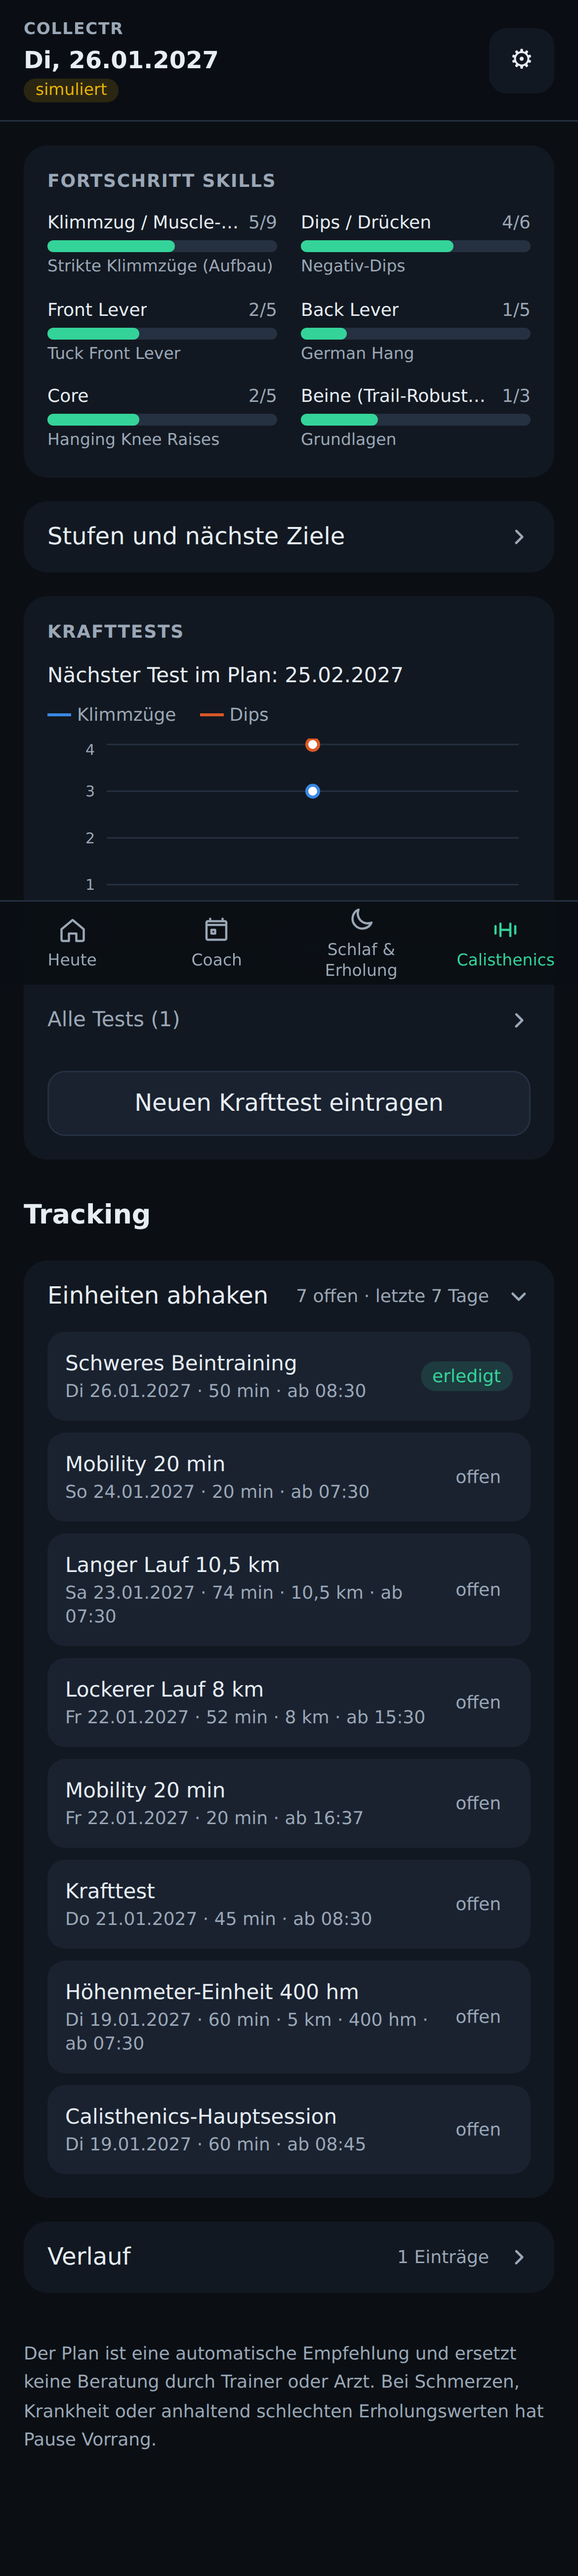
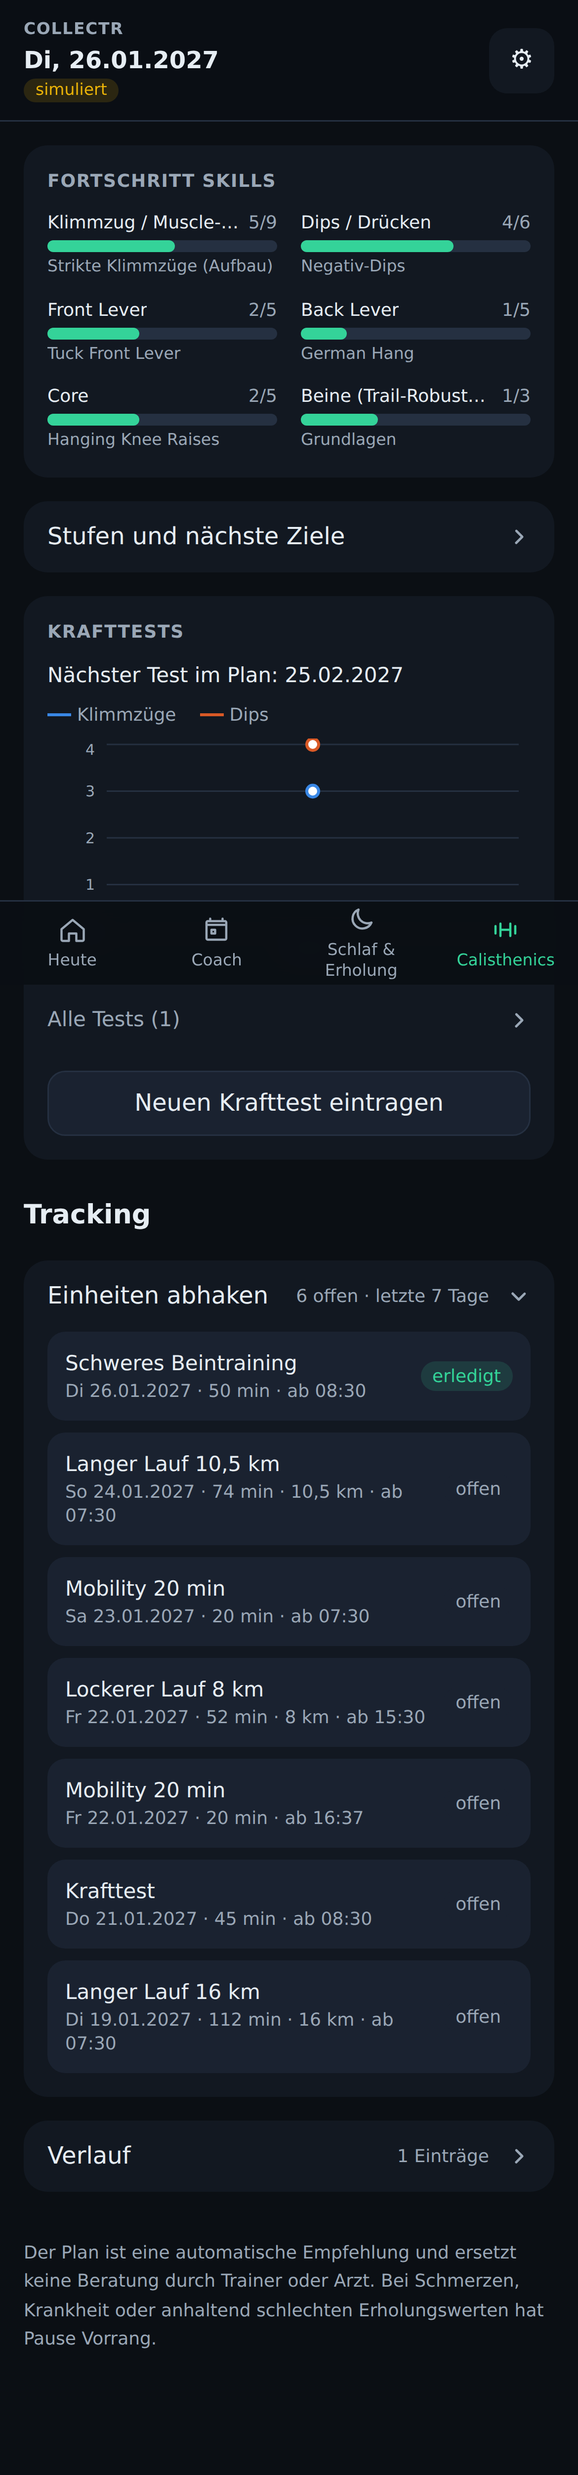
Grundlage und Aufbau: Tag 4 Calisthenics, Tag 5 langer Lauf
Nutzerwunsch: an Tag 4 zuerst Höhenmeter- bzw. Qualitätseinheit und
Calisthenics, an Tag 5 der lange Lauf. Rennspezifisch und Taper bleiben
unverändert (langer Lauf an Tag 4, B2B und Bergwochenenden an Tag 4/5).

- CONFIG.plan.longRunDay je Phase, composeMicro mit longRunDay
- generatePlan: ist Tag 5 nicht frei (V, Urlaub, krank), Tag 4 aber frei und
  noch ohne Eintrag, läuft der lange Lauf an Tag 4
- Tests angepasst und ergänzt (Layout, V-Schicht an Tag 5, Vorausschau)

Claude-Session: https://claude.ai/code/session_017BJPYiqC2kuGk2Qt34sR8W

diff --git a/src/core/plan/plan.test.ts b/src/core/plan/plan.test.ts
@@ -269,12 +269,49 @@ describe('Harte Regeln (SPEC 4.3, 5.3, 5.5, 11)', () => {
     for (const d of plan.days.filter((x) => x.shift.dayKind === 'pre_night')) {
       expect(d.sessions.filter((s) => !s.optional).length).toBeLessThanOrEqual(CONFIG.plan.maxSessionsPreNight)
     }
-    // In Grundlage und Aufbau ist das die Krafteinheit, Qualitätseinheiten liegen an Tag 5
+    // In Grundlage und Aufbau ist das die Krafteinheit, Qualitätseinheiten liegen im Aufbau an Tag 4, danach an Tag 5
     const build = plan.days.filter((d) => d.shift.dayKind === 'pre_night' && plan.microcycles[d.microIndex - 1]?.phase === 'build')
     expect(build.length).toBeGreaterThan(0)
     for (const d of build) expect(d.sessions.every((s) => s.category === 'strength')).toBe(true)
-    const quality = plan.days.flatMap((d) => d.sessions.filter((s) => s.type === 'threshold' || s.type === 'intervals_uphill').map(() => d.shift.cycleDay))
-    expect(new Set(quality)).toEqual(new Set([5]))
+    const quality = (phases: string[]) =>
+      new Set(
+        plan.days
+          .filter((d) => phases.includes(plan.microcycles[d.microIndex - 1]!.phase))
+          .flatMap((d) => d.sessions.filter((s) => s.type === 'threshold' || s.type === 'intervals_uphill').map(() => d.shift.cycleDay)),
+      )
+    expect(quality(['build'])).toEqual(new Set([4]))
+    expect(quality(['specific', 'taper'])).toEqual(new Set([5]))
+  })
+
+  it('Grundlage und Aufbau: Tag 4 Höhenmeter/Qualität + Calisthenics, Tag 5 langer Lauf (Nutzerwunsch)', () => {
+    for (const m of plan.microcycles.filter((x) => x.phase === 'base' || x.phase === 'build')) {
+      const d4 = plan.days.find((d) => d.microIndex === m.index && d.shift.cycleDay === 4 && d.date > CONFIG.plan.startDate)!
+      const d5 = plan.days.find((d) => d.microIndex === m.index && d.shift.cycleDay === 5 && d.date > CONFIG.plan.startDate)!
+      expect(types(d5), `Mikrozyklus ${m.index}`).toEqual(['long_run'])
+      if (m.kind === 'deload') expect(types(d4)).toEqual(['mobility'])
+      else {
+        expect(types(d4), `Mikrozyklus ${m.index}`).toContain('calisthenics_main')
+        expect(types(d4).some((t) => ['treadmill_hills', 'intervals_uphill', 'threshold'].includes(t))).toBe(true)
+        // Lauf zuerst, danach Calisthenics
+        const run = d4.sessions.find((s) => s.category === 'run')!
+        const cali = d4.sessions.find((s) => s.type === 'calisthenics_main')!
+        expect(cali.startMin!).toBeGreaterThan(run.startMin!)
+      }
+    }
+    // rennspezifisch wie bisher: langer Lauf an Tag 4
+    expect(types(day(plan, '2027-06-17'))).toEqual(['long_run'])
+  })
+
+  it('V-Schicht an Tag 5 (vorher bekannt): langer Lauf an Tag 4, ist Tag 4 schon eingetragen, fällt er aus', () => {
+    const cal = withOverride(createShiftCalendar(), { date: '2026-10-31', kind: 'V' })
+    const p = generatePlan({ calendar: cal })
+    expect(types(day(p, '2026-10-30'))).toEqual(['long_run'])
+    expect(day(p, '2026-10-31').sessions).toEqual([])
+    const hillsId = day(plan, '2026-10-30').sessions[0]!.id
+    const logged = generatePlan({ calendar: cal, logs: [{ sessionId: hillsId, date: '2026-10-30', status: 'done' }] })
+    expect(types(day(logged, '2026-10-30'))).toEqual(['treadmill_hills', 'calisthenics_main'])
+    expect(day(logged, '2026-10-31').removed.find((r) => r.session.type === 'long_run')!.note).toContain('gestrichen')
+    expect(microKm(logged, 2)).toBe(microKm(plan, 2)) // kein Nachholen
   })
 
   it('Tag 2: jeder Einheitentyp ist erlaubt, der ins Fenster passt (lange Läufe laut 5.3 nur Tag 4/5)', () => {
@@ -355,10 +392,10 @@ describe('V-Schicht, Ausfälle und Verschieben (SPEC 4.1, 6.3, 11)', () => {
     expect(hills.note).toContain('gestrichen')
     const cali = v.removed.find((r) => r.session.type === 'calisthenics_main')!
     expect(cali.reason).toBe('moved')
-    const target = day(p, '2026-11-04')
+    const target = day(p, '2026-11-05')
     const moved = target.sessions.find((s) => s.type === 'calisthenics_main')!
     expect(moved.origin?.movedFrom).toBe('2026-10-31')
-    expect(target.shift.cycleDay).toBe(4)
+    expect(target.shift.cycleDay).toBe(5)
   })
 
   it('nie auf Tag 1 verschoben', () => {
@@ -367,11 +404,11 @@ describe('V-Schicht, Ausfälle und Verschieben (SPEC 4.1, 6.3, 11)', () => {
     for (const d of p.days.filter((x) => x.shift.cycleDay === 1)) expect(d.sessions).toEqual([])
   })
 
-  it('Krankheit an Tag 4: langer Lauf rückt auf Tag 5 und ersetzt die schwächere Einheit, kein Nachholen', () => {
+  it('Krankheit an Tag 4: Calisthenics rückt auf Tag 5 zum langen Lauf, Höhenmeter entfallen, kein Nachholen', () => {
     const cal = withOverride(createShiftCalendar(), { date: '2026-10-30', kind: 'KRANK' })
     const p = generatePlan({ calendar: cal })
     const d5 = day(p, '2026-10-31')
-    expect(types(d5)).toContain('long_run')
+    expect(types(d5)).toEqual(['long_run', 'calisthenics_main'])
     expect(types(d5)).not.toContain('treadmill_hills')
     expect(microKm(p, 1)).toBeLessThanOrEqual(microKm(plan, 1))
     expect(microKm(p, 2)).toBe(microKm(plan, 2))
@@ -390,14 +427,14 @@ describe('V-Schicht, Ausfälle und Verschieben (SPEC 4.1, 6.3, 11)', () => {
   })
 
   it('ausgelassene Schlüsseleinheit wird höchstens einmal verschoben', () => {
-    const longId = day(plan, '2026-10-30').sessions.find((s) => s.type === 'long_run')!.id
-    const p1 = generatePlan({ logs: [{ sessionId: longId, date: '2026-10-30', status: 'skipped' }] })
-    const moved = day(p1, '2026-10-31').sessions.find((s) => s.type === 'long_run')!
+    const caliId = day(plan, '2026-10-30').sessions.find((s) => s.type === 'calisthenics_main')!.id
+    const p1 = generatePlan({ logs: [{ sessionId: caliId, date: '2026-10-30', status: 'skipped' }] })
+    const moved = day(p1, '2026-10-31').sessions.find((s) => s.type === 'calisthenics_main')!
     expect(moved.origin?.movedFrom).toBe('2026-10-30')
     // die verschobene Einheit wird ebenfalls ausgelassen → kein zweites Verschieben
     const p2 = generatePlan({
       logs: [
-        { sessionId: longId, date: '2026-10-30', status: 'skipped' },
+        { sessionId: caliId, date: '2026-10-30', status: 'skipped' },
         { sessionId: moved.id, date: '2026-10-31', status: 'skipped' },
       ],
     })
@@ -475,7 +512,7 @@ describe('Einheiten-Inhalt (SPEC 9)', () => {
       { onboarding: true },
     )
     const p = generatePlan({ strengthState: state })
-    const cali = day(p, '2026-10-31').sessions.find((s) => s.type === 'calisthenics_main')!
+    const cali = day(p, '2026-10-30').sessions.find((s) => s.type === 'calisthenics_main')!
     expect(cali.exercises!.length).toBeGreaterThan(3)
     expect(cali.exercises!.every((e) => e.sets > 0 && e.restSec > 0 && (e.reps !== undefined || e.holdSec !== undefined))).toBe(true)
   })

diff --git a/src/core/recovery/recovery.test.ts b/src/core/recovery/recovery.test.ts
@@ -21,7 +21,7 @@ import {
   type UpcomingKey,
 } from './index'
 
-const DATE = '2026-12-12' // Tag 2 im Aufbau (vor der Nacht)
+const DATE = '2026-12-12' // Tag 2 in der Grundlage (vor der Nacht)
 const ctx: SessionContext = { date: DATE, microIndex: 15, phase: 'build', slot: 'lauf' }
 
 /** Eine Einheit je Typ (ohne Rennen). */
@@ -301,11 +301,17 @@ describe('Vorausschau 6.3a', () => {
 
   it('findet die kommenden Schlüsseleinheiten im Plan inkl. Nachtschicht dazwischen', () => {
     const plan = generatePlan()
-    const u = upcomingKeySessions(plan, DATE, createShiftCalendar())
-    const long = u.find((x) => x.session.type === 'long_run')!
-    expect(long.date).toBe('2026-12-14')
+    // Tag 2 im Aufbau: Qualität an Tag 4 übermorgen, mit Nachtschicht dazwischen
+    const u = upcomingKeySessions(plan, '2027-01-26', createShiftCalendar())
+    const quality = u.find((x) => x.session.type === 'intervals_uphill')!
+    expect(quality.date).toBe('2027-01-28')
+    expect(quality.daysAhead).toBe(2)
+    expect(quality.nightShiftBetween).toBe(true)
+    // Tag 3: langer Lauf an Tag 5 übermorgen, die Nachtschicht liegt schon zurück
+    const long = upcomingKeySessions(plan, '2027-01-27', createShiftCalendar()).find((x) => x.session.type === 'long_run')!
+    expect(long.date).toBe('2027-01-29')
     expect(long.daysAhead).toBe(2)
-    expect(long.nightShiftBetween).toBe(true)
+    expect(long.nightShiftBetween).toBe(false)
   })
 })
 
@@ -338,18 +344,18 @@ describe('Mikrozyklus-Reduktion (SPEC 6.3, 11)', () => {
 describe('Nachhol-Vorschlag (SPEC 6.3)', () => {
   it('nur bei sehr guter Recovery und nur als Vorschlag, wenn die Regeln erfüllt sind', () => {
     const plan = generatePlan()
-    // Künstlich: langer Lauf an Tag 4 (30.10.) ist ausgefallen und wurde nicht verschoben.
-    const d4 = plan.days.find((d) => d.date === '2026-10-30')!
+    // Künstlich: langer Lauf im Rennzeitplan an Tag 4 (27.06.2027) ist ausgefallen und wurde nicht verschoben.
+    const d4 = plan.days.find((d) => d.date === '2027-06-27')!
     const long = d4.sessions.find((s) => s.type === 'long_run')!
     d4.sessions = d4.sessions.filter((s) => s !== long)
     d4.removed.push({ session: long, reason: 'no_window', note: 'Krank.' })
-    const date = '2026-10-31' // Tag 5 mit Höhenmeter-Einheit
+    const date = '2027-06-28' // Tag 5 mit Höhenmeter-Einheit
     const great = assessReadiness({ date, today: whoopDay(date, 90) })
     const s = suggestCatchUp(plan, date, great)
     expect(s?.session.type).toBe('long_run')
     expect(s?.replaces.map((x) => x.type)).toEqual(['treadmill_hills'])
     expect(s?.text).toContain('Freiwillig')
     expect(suggestCatchUp(plan, date, assessReadiness({ date, today: whoopDay(date, 70) }))).toBeNull()
-    expect(suggestCatchUp(plan, '2026-12-19', great)).toBeNull() // Tag 4: langer Lauf ist wichtiger
+    expect(suggestCatchUp(plan, '2027-07-02', great)).toBeNull() // Tag 4 mit eigenem langen Lauf
   })
 })

diff --git a/src/core/plan/compose.ts b/src/core/plan/compose.ts
@@ -34,6 +34,8 @@ export interface ComposeOptions {
   /** Reduktionsfaktor aus der Erholung (1 = keine Reduktion). */
   modifier: number
   strengthState?: StrengthState
+  /** Tag des langen Laufs in Grundlage, Aufbau und Entlastung (Standard: `plan.longRunDay` der Phase). */
+  longRunDay?: 4 | 5
 }
 
 type FlexKind = 'easy' | 'easy_abc' | 'easy_strides' | 'hills' | 'easy_afternoon'
@@ -140,27 +142,29 @@ export function composeMicro(micro: Microcycle, vol: MicroVolume, opts: ComposeO
   const S = V.flexShares
 
   // Tag 2 (vor der Nachtschicht) hat genau eine Einheit: die Krafteinheit. Der Lauf liegt an Tag 3
-  // nach dem Tagschlaf, Qualitätseinheiten an Tag 5.
+  // nach dem Tagschlaf. In Grundlage und Aufbau: Tag 4 Höhenmeter/Qualität + Calisthenics, Tag 5 langer Lauf.
+  const longDay: 4 | 5 = opts.longRunDay ?? CONFIG.plan.longRunDay[phase]
+  const otherDay: 4 | 5 = longDay === 5 ? 4 : 5
   switch (micro.template) {
     case 'base':
-      addLong(4, 'long_run', vol.longRunKm)
-      flex.push({ day: 3, kind: 'easy', share: S.base.day3 }, { day: 5, kind: 'hills', share: S.base.day5 })
-      extras.push({ day: 2, make: strength('legs_heavy') }, { day: 5, make: strength('calisthenics_main') })
+      addLong(longDay, 'long_run', vol.longRunKm)
+      flex.push({ day: 3, kind: 'easy', share: S.base.day3 }, { day: otherDay, kind: 'hills', share: S.base.hills })
+      extras.push({ day: 2, make: strength('legs_heavy') }, { day: otherDay, make: strength('calisthenics_main') })
       optionalD3(true)
       break
     case 'build_a':
     case 'build_b':
-      addLong(4, 'long_run', vol.longRunKm)
-      addQuality(5, micro.template === 'build_a' ? 'intervals_uphill' : 'threshold')
+      addLong(longDay, 'long_run', vol.longRunKm)
+      addQuality(otherDay, micro.template === 'build_a' ? 'intervals_uphill' : 'threshold')
       flex.push({ day: 3, kind: 'easy', share: 1 })
-      extras.push({ day: 2, make: strength('legs_heavy') }, { day: 5, make: strength('calisthenics_main') })
+      extras.push({ day: 2, make: strength('legs_heavy') }, { day: otherDay, make: strength('calisthenics_main') })
       optionalD3(true)
       break
     case 'deload':
-      addLong(4, 'long_run', vol.longRunKm)
-      flex.push({ day: 3, kind: 'easy', share: S.deload.day3 }, { day: 5, kind: 'hills', share: S.deload.day5 })
+      addLong(longDay, 'long_run', vol.longRunKm)
+      flex.push({ day: 3, kind: 'easy', share: S.deload.day3 }, { day: otherDay, kind: 'hills', share: S.deload.hills })
       extras.push({ day: 2, make: strength(micro.hasStrengthTest ? 'strength_test' : 'calisthenics_maintenance') })
-      extras.push({ day: 5, make: (ctx) => mobility(ctx, 20, false) })
+      extras.push({ day: otherDay, make: (ctx) => mobility(ctx, 20, false) })
       optionalD3(false)
       break
     case 'specific_b2b': {

diff --git a/e2e/app.spec.ts b/e2e/app.spec.ts
@@ -75,9 +75,13 @@ test('Onboarding, Heute, Zyklus, Plan, Kraft, Tracking, Einstellungen', async ({
   await page.getByRole('link', { name: 'Coach', exact: true }).click()
   await expect(page).toHaveURL(/\/zyklus$/)
   await expect(page.getByTestId('volume').first()).toContainText('pro Rhythmus')
+  // Grundlage/Aufbau: Tag 4 Qualität + Calisthenics, Tag 5 langer Lauf
+  const d4 = page.getByTestId('day-2027-01-28')
   const d5 = page.getByTestId('day-2027-01-29')
+  await expect(d4).toContainText('Bergauf-Intervalle')
+  await expect(d4).toContainText('Calisthenics-Hauptsession')
   await expect(d5).toContainText('Frei')
-  await expect(d5).toContainText('Bergauf-Intervalle')
+  await expect(d5).toContainText('Langer Lauf')
   // Tag 2 (vor der Nacht): nur eine Einheit
   await expect(page.getByTestId('day-2027-01-26')).toContainText('Schweres Beintraining')
   await expect(page.getByTestId('day-2027-01-26')).not.toContainText('Lauf')
@@ -87,6 +91,8 @@ test('Onboarding, Heute, Zyklus, Plan, Kraft, Tracking, Einstellungen', async ({
   await expect(d5).toContainText('V-Schicht')
   await expect(d5).not.toContainText('Ruhetag · optional')
   await expect(d5).toContainText(/gestrichen|Verschoben/)
+  // V-Schicht an Tag 5: der lange Lauf rückt auf Tag 4
+  await expect(d4).toContainText('Langer Lauf')
   await noHorizontalScroll(page)
   await shot(page, '04-zyklus-v-schicht')
   await page.getByRole('button', { name: 'Kalenderwochen' }).click()

diff --git a/src/core/plan/generatePlan.ts b/src/core/plan/generatePlan.ts
@@ -51,6 +51,18 @@ export function generatePlan(input: PlanInput = {}): Plan {
     return list.length <= 1 || pos < 0 ? 1 : pos / (list.length - 1)
   }
 
+  // Tag des langen Laufs: in Grundlage und Aufbau Tag 5. Ist Tag 5 nicht frei (V-Schicht, Urlaub, krank …),
+  // Tag 4 aber schon und dort noch nichts eingetragen, läuft der lange Lauf an Tag 4.
+  const loggedDates = new Set((input.logs ?? []).map((l) => l.date))
+  const isFree = (date: LocalDate) => effectiveShift(cal, date).dayKind === 'free'
+  const longRunDay = (index: number, phase: Phase): 4 | 5 => {
+    const preferred = CONFIG.plan.longRunDay[phase]
+    if (preferred === 4) return 4
+    const d4 = addDays(rhythmStart(index), 3)
+    const d5 = addDays(rhythmStart(index), 4)
+    return !isFree(d5) && isFree(d4) && !loggedDates.has(d4) ? 4 : 5
+  }
+
   // 1. Einheiten je Mikrozyklus zusammenstellen und auf Tage legen
   const days = new Map<LocalDate, PlanDay>()
   const lost: { session: PlannedSession; date: LocalDate }[] = []
@@ -58,6 +70,7 @@ export function generatePlan(input: PlanInput = {}): Plan {
     const intended = composeMicro(m, volByMicro.get(m.index)!, {
       progress: progressOf(m.index, m.phase),
       modifier: modifier(m.index),
+      longRunDay: longRunDay(m.index, m.phase),
       ...(input.strengthState ? { strengthState: input.strengthState } : {}),
     })
     const microDays: PlanDay[] = []

diff --git a/src/core/config.ts b/src/core/config.ts
@@ -58,6 +58,12 @@ export const CONFIG = {
     introRunMin: 35,
     /** Am Tag vor der Nachtschicht höchstens so viele (nicht-optionale) Einheiten (Entscheidung nach Phase 7). */
     maxSessionsPreNight: 1,
+    /**
+     * Tag des langen Laufs je Phase (Nutzerwunsch 26.10.2026): in Grundlage und Aufbau an Tag 4 erst
+     * Höhenmeter- bzw. Qualitätseinheit und Calisthenics, an Tag 5 der lange Lauf. Ist Tag 5 nicht frei
+     * (z. B. V-Schicht) und Tag 4 noch ohne Eintrag, läuft der lange Lauf an Tag 4.
+     */
+    longRunDay: { base: 5, build: 5, specific: 4, taper: 4 } as Record<Phase, 4 | 5>,
     totalMicros: 66,
     /**
      * Mesozyklen: Phase und Länge in Mikrozyklen. Alle Phasen anteilig verlängert (Zielwechsel):
@@ -335,8 +341,9 @@ export const CONFIG = {
      * (Entscheidung nach Phase 7: „am Tag vor der Nacht schaffe ich nur eine Einheit“).
      */
     flexShares: {
-      base: { day3: 0.62, day5: 0.38 },
-      deload: { day3: 0.6, day5: 0.4 },
+      /** Lockerer Lauf an Tag 3, Höhenmeter-Einheit am Tag ohne langen Lauf (Tag 4, siehe `plan.longRunDay`). */
+      base: { day3: 0.62, hills: 0.38 },
+      deload: { day3: 0.6, hills: 0.4 },
       final: { day3: 0.6, day5: 0.4 },
       /** Zyklus mit langem Lauf im Rennzeitplan: lockerer Lauf an Tag 3, Höhenmeter-Einheit an Tag 5. */
       early: { day3: 0.6, day5: 0.4 },

diff --git a/src/core/recovery/patterns.test.ts b/src/core/recovery/patterns.test.ts
@@ -30,11 +30,13 @@ describe('Gelernte Muster (SPEC 6.4)', () => {
 
   it('lange Läufe: Folgetag gegen Tage gleicher Art', () => {
     const days = sampleRecoveryDays(cal, { start: '2026-10-02', days: 60 }).map((d) =>
-      // Tag 5 nach einem langen Lauf an Tag 4 künstlich schlechter
-      (Date.parse(d.date) / 86_400_000 - Date.parse('2026-10-02') / 86_400_000) % 5 === 4 ? { ...d, recoveryScore: (d.recoveryScore ?? 60) - 12 } : d,
+      // Tag 1 nach einem langen Lauf an Tag 5 künstlich schlechter (lange Läufe ab 31.10.)
+      d.date > '2026-10-31' && (Date.parse(d.date) / 86_400_000 - Date.parse('2026-10-02') / 86_400_000) % 5 === 0
+        ? { ...d, recoveryScore: (d.recoveryScore ?? 60) - 12 }
+        : d,
     )
     const logs = plan.days
-      .filter((d) => d.date < '2026-12-01' && d.shift.cycleDay === 4)
+      .filter((d) => d.date < '2026-12-01' && d.shift.cycleDay === 5)
       .flatMap((d) => d.sessions.filter((s) => s.type === 'long_run').map((s) => ({ sessionId: s.id, date: d.date, status: 'done' as const })))
     const p = learnPatterns({ cal, days, logs, sessionsById })
     const long = p.effects.find((e) => e.key === 'long_run')!

diff --git a/src/core/whoop/whoop.test.ts b/src/core/whoop/whoop.test.ts
@@ -96,8 +96,8 @@ describe('Workouts → Einheiten', () => {
     expect(sportCategory('Golf')).toBeUndefined()
   })
 
-  it('Lauf und Kraft an Tag 5 werden der passenden Einheit zugeordnet, Korrektur geht vor', () => {
-    const date = '2026-10-31'
+  it('Lauf und Kraft an Tag 4 werden der passenden Einheit zugeordnet, Korrektur geht vor', () => {
+    const date = '2026-10-30'
     const day = plan.days.find((d) => d.date === date)!
     const run = day.sessions.find((s) => s.category === 'run')!
     const legs = day.sessions.find((s) => s.category === 'strength')!

diff --git a/src/core/sleep/evening.test.ts b/src/core/sleep/evening.test.ts
@@ -24,7 +24,7 @@ describe('Abendroutine', () => {
   })
 
   it('vor dem langen Lauf: Kohlenhydrate, Route; vor der Nachtschicht: ausschlafen', () => {
-    const r = routine('2026-10-29') // Tag 3, morgen langer Lauf
+    const r = routine('2026-10-30') // Tag 4, morgen langer Lauf (Tag 5)
     expect(r.prepare.join(' ')).toMatch(/Langer Lauf .*kohlenhydratreich/)
     expect(r.prepare.join(' ')).toContain('Route für')
     const beforeNight = routine('2026-11-01') // Tag 1, morgen Nachtschicht

diff --git a/CLAUDE.md b/CLAUDE.md
@@ -26,6 +26,7 @@ Bei Unklarheiten, Widersprüchen oder mehreren sinnvollen Möglichkeiten: **den 
 | Phasen/Mesozyklen | alle anteilig verlängert: Grundlage Meso 1–3 (je 6), Aufbau Meso 4–7 (7, 7, 6, 6), Rennspezifisch Meso 8–10 (je 6), Taper 02.–18.09.2027 (2 Taper, Rennwoche, Renntag) |
 | Entlastung | jeweils der letzte Mikrozyklus eines Mesozyklus, **außer Meso 10**, weil dort direkt der Taper folgt |
 | Schweres Beintraining | vorrangig Tag 2. Tag 4 nur, wenn Tag 5 keinen langen Lauf und keine Qualitätseinheit hat |
+| Tag 4/5 in Grundlage und Aufbau | (Nutzerwunsch 26.10.2026) Tag 4: Höhenmeter- bzw. Qualitätseinheit, danach Calisthenics. Tag 5: langer Lauf (`plan.longRunDay`). Ist Tag 5 nicht frei (V, Urlaub, krank) und Tag 4 noch ohne Eintrag, läuft der lange Lauf an Tag 4. Rennspezifisch und Taper unverändert (langer Lauf Tag 4) |
 | Bergwochenenden | 2: Sa/So 17./18.07.2027 und Sa/So 21./22.08.2027 = **Streckenbesichtigung Arberland** (4 Wochen vor dem Rennen) |
 | Umfang (Zielwechsel) | ans Rennen angepasst: Spitze ca. 62–66 km/Woche, längster Lauf 40 km (06.08.2027), B2B-Spitze 26 + 16 km |
 | Rennwoche ohne Urlaub | Schichtplan bleibt wie berechnet, Warnung im Coach (Checkliste), bis Urlaub eingetragen ist. Pflicht 17.–18.09., empfohlen 12.–19.09. |
@@ -41,7 +42,7 @@ Bei Unklarheiten, Widersprüchen oder mehreren sinnvollen Möglichkeiten: **den 
 | Phase 5 | Eindeutige Workouts automatisch, Rest bestätigen; Abruf beim Öffnen + manuell (täglicher Abruf/Webhooks in Phase 6) |
 | Phase 6 | Push-Erinnerungen erst in Phase 7; gelernte Muster anzeigen, Nutzung per Schalter (Standard aus) |
 | Phase 7 | Push 30 min vor Zubettgehen/Nap; .ics mit Einheiten, Schichten, Schlaf/Nap; Dienstplan-Import mit Vorschau und Bestätigung |
-| Tag 2 (vor der Nacht) | Nur **eine** Einheit (die Krafteinheit). Lauf an Tag 3 nach dem Tagschlaf (locker, ab 15:00), Qualität an Tag 5, im Taper bleibt Tag 3 frei. Höhenmeter über hügeligere lange Läufe (Obergrenze Aufbau 700, Rennspezifisch 1.200 hm). Freie Tage dürfen 2 Einheiten haben |
+| Tag 2 (vor der Nacht) | Nur **eine** Einheit (die Krafteinheit). Lauf an Tag 3 nach dem Tagschlaf (locker, ab 15:00), Qualität an Tag 4 (Aufbau) bzw. Tag 5 (Taper), im Taper bleibt Tag 3 frei. Höhenmeter über hügeligere lange Läufe (Obergrenze Aufbau 700, Rennspezifisch 1.200 hm). Freie Tage dürfen 2 Einheiten haben |
 | Konten | Vercel vorhanden. Supabase und WHOOP Developer werden in Phase 4/5 mit Anleitung angelegt |
 
 ## Befehle (ab Phase 2)
@@ -103,6 +104,9 @@ Bei Unklarheiten, Widersprüchen oder mehreren sinnvollen Möglichkeiten: **den 
   - `resetHistory()` in IndexedDB und Sync, einmalig über `settings.planId`, Hinweis auf Heute
   - Tests: 244 Vitest, 10 Playwright (inkl. Zielwechsel lokal und mit Konto)
   - Fix: mit Konto lud die App nach dem Update endlos (jede Sync-Statusänderung startete das Löschen erneut). Jetzt nur ein Durchlauf (`resetHistoryOnce`) und stabile `onRemoteChange`-Referenz in `cloud.tsx`
+- [x] **Tag 4/5 getauscht in Grundlage und Aufbau** (Nutzerwunsch): Tag 4 Höhenmeter/Qualität + Calisthenics, Tag 5 langer Lauf
+  - `plan.longRunDay` je Phase, `ComposeOptions.longRunDay`; `generatePlan` legt den langen Lauf auf Tag 4, wenn Tag 5 nicht frei ist und Tag 4 noch keinen Eintrag hat
+  - Tests: 246 Vitest, 10 Playwright
 
 ## Phase 2 – Plan (freigegeben)
 

diff --git a/docs/PLANUNG.md b/docs/PLANUNG.md
@@ -390,3 +390,10 @@ Entlastungen: Mikro 6, 12, 18, 25, 32, 38, 44, 50, 56. Krafttests: 6, 12, 18, 25
 
 - Einmalig beim ersten Öffnen nach dem Update (`settings.planId` ≠ `CONFIG.race.id`): `Repository.resetHistory()` löscht erledigte/ausgelassene Einheiten, manuelle Erholung, Anpassungs-Entscheidungen, Workout-Zuordnungen und die Checkliste, lokal und über Tombstones in der Cloud. Danach Hinweis auf „Heute“.
 - Krafttests, Kraftstufen, Profil, Schicht-Overrides und WHOOP-Daten bleiben. Neue Nutzer bekommen `planId` beim Onboarding.
+
+### 8.7 Tag 4 und 5 in Grundlage und Aufbau (26.10.2026)
+
+- Tag 4: Höhenmeter-Einheit (Grundlage) bzw. Bergauf-Intervalle/Schwelle (Aufbau), danach Calisthenics-Hauptsession. In der Entlastung Mobility.
+- Tag 5: langer Lauf (`CONFIG.plan.longRunDay`: base/build 5, specific/taper 4).
+- Ist Tag 5 nicht frei (V-Schicht, Urlaub, krank) und Tag 4 frei und noch ohne Eintrag, läuft der lange Lauf an Tag 4, die Tag-4-Einheiten wandern auf Tag 5 und werden dort wie bisher verschoben oder gestrichen. Ist Tag 4 schon eingetragen, fällt der lange Lauf aus (kein Nachholen).
+- Die Vorausschau (2 Tage) sieht an Tag 2 die Qualität an Tag 4, an Tag 3 den langen Lauf an Tag 5.
